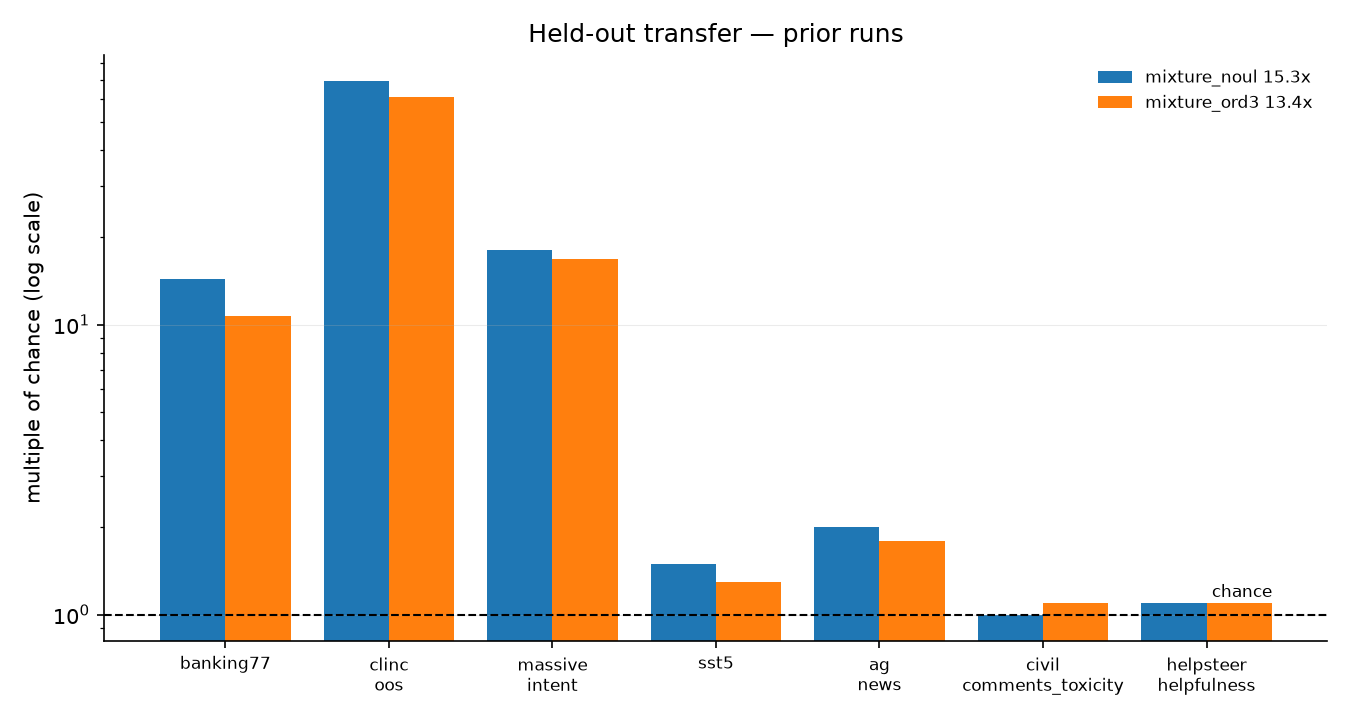
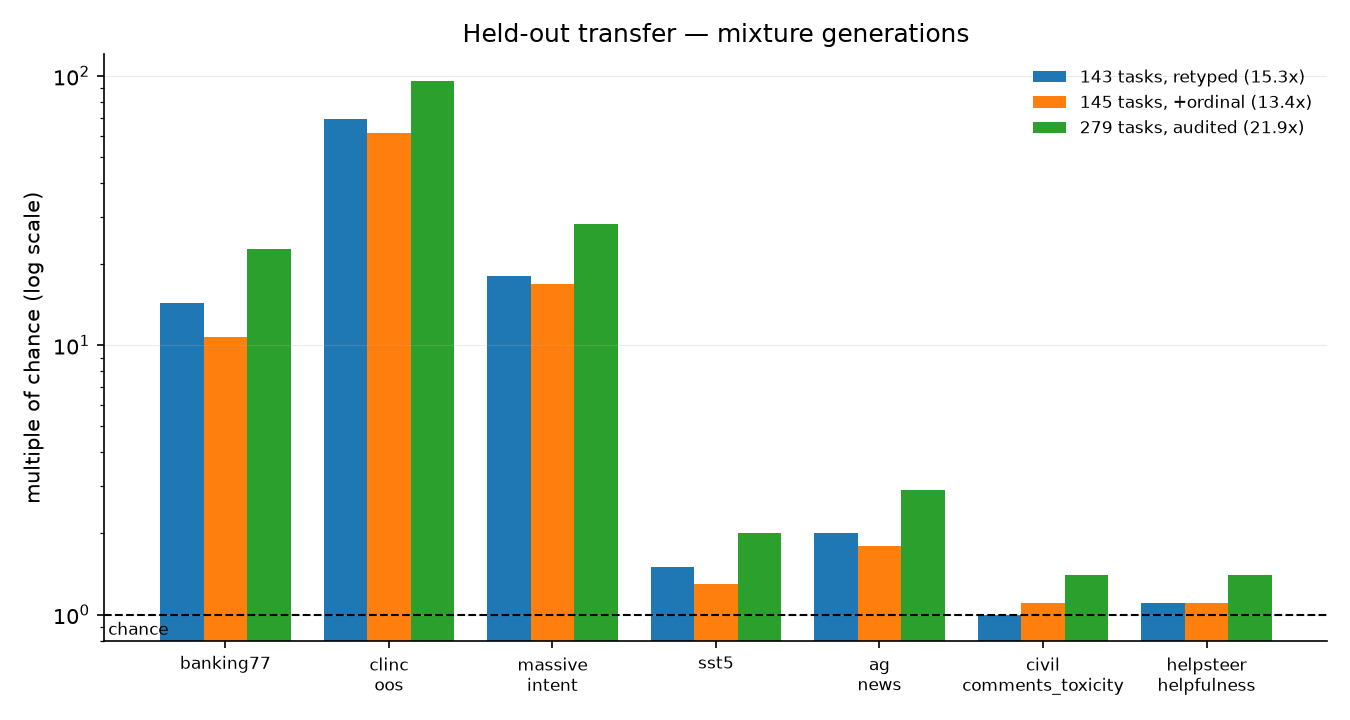
Plot the mixture generations, including the one that went backwards
Three bars per held-out task, one per mixture generation, on a log axis
with the chance line marked. The audited 279-task mixture is highest on
every task, and the middle bar is visibly lower than the first, which is
the negative transfer from trading away choice tasks. Showing the
regression next to the recovery is the point: a chart with only the best
run would imply steady progress that did not happen.

Moves the chance label below the line and hard left. The rightmost tasks
are the ones closest to chance, so a label above the line on that side
sits on top of the bars it is there to explain.

diff --git a/scripts/plot_results.py b/scripts/plot_results.py
@@ -118,7 +118,10 @@ def main() -> None:
             ax.bar(xs, [vals.get(t, 0) for t in tasks], width=width, label=label)
         # Chance is 1.0 on this axis, so the line is the thing to clear.
         ax.axhline(1.0, color="black", linewidth=1, linestyle="--")
-        ax.text(len(tasks) - 0.4, 1.15, "chance", fontsize=8, ha="right")
+        # Label it below the line and hard left: the rightmost tasks are the
+        # ones that sit closest to chance, so anything above the line there
+        # lands on top of the bars it is meant to explain.
+        ax.text(-0.45, 0.94, "chance", fontsize=8, ha="left", va="top")
         ax.set_yscale("log")
         ax.set_ylabel("multiple of chance (log scale)")
         ax.set_xticks([j + 0.4 - width / 2 for j in range(len(tasks))])

diff --git a/docs/results.md b/docs/results.md
@@ -50,6 +50,13 @@ overlap.
 chance floor, and the three high-cardinality menus are clear by wide
 margins.
 
+![held-out transfer across mixture generations](plots/heldout_transfer.png)
+
+The three bars per task are the last three mixtures. The middle one is
+worse than the first: that is the negative transfer from trading away
+`choice` tasks, and it is why the audit came before this run rather than
+after.
+
 **One task is weaker than that table implies.** Chance is not always the
 right floor: a task with skewed labels can be beaten by always predicting
 the most common one. Against *that* baseline:
